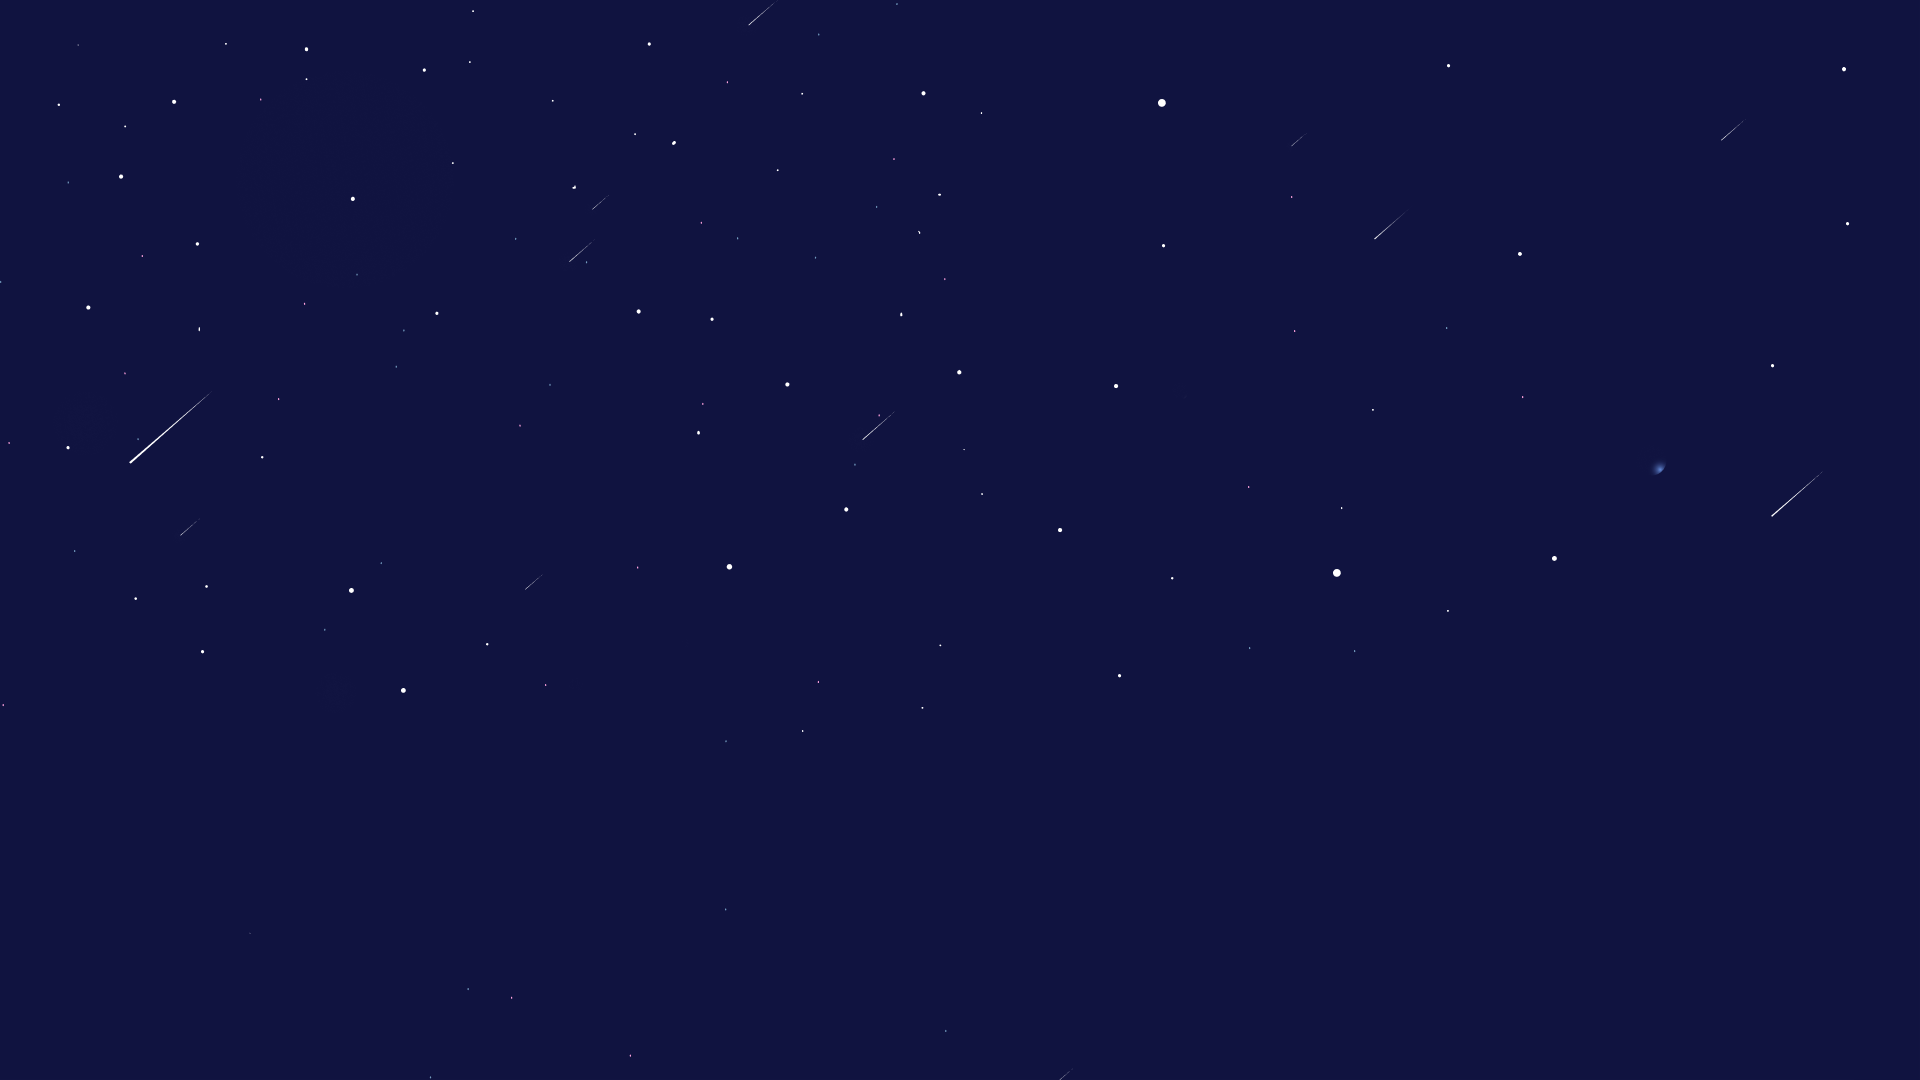
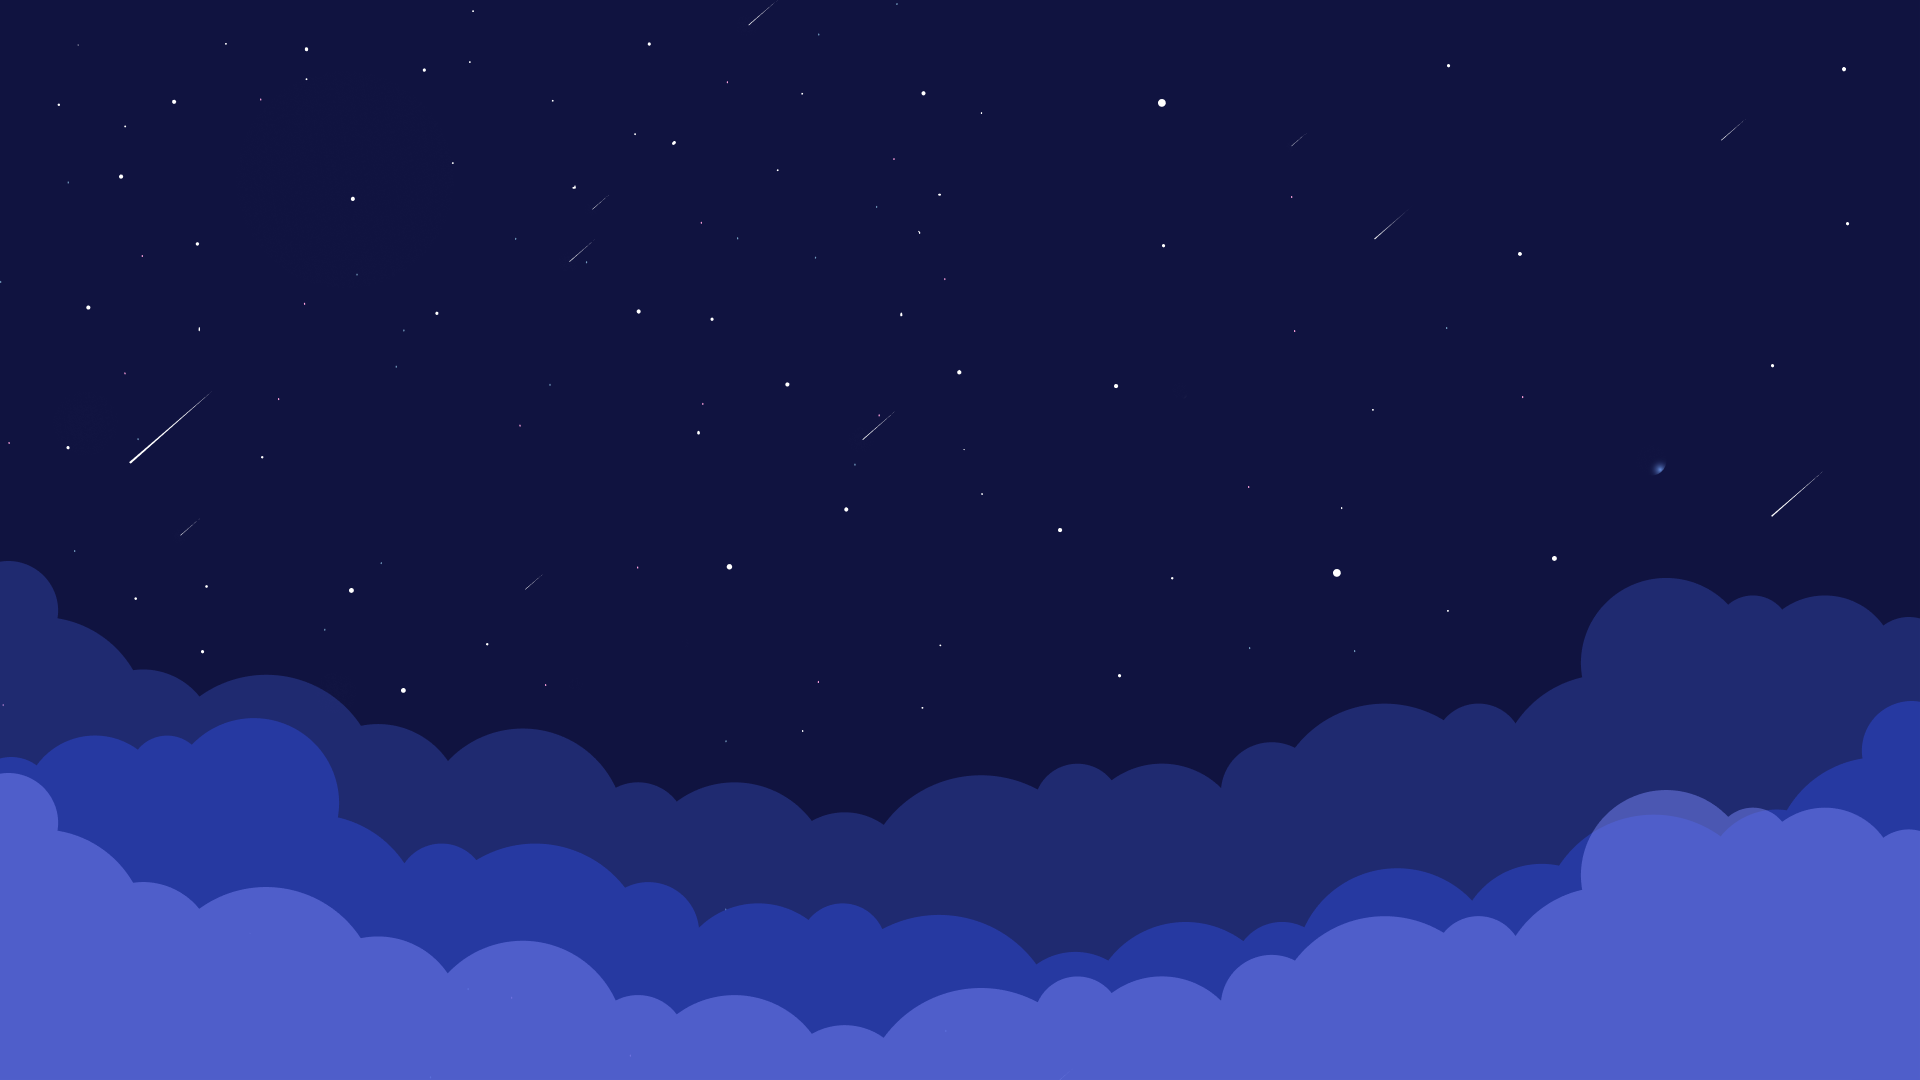
[docs] 모바일 이미지 작업중

diff --git a/src/shared/App.js b/src/shared/App.js
@@ -81,36 +81,35 @@ function App() {
         <Wrap className="App">
           <ConnectedRouter history={history}>
             <Header></Header>
-            <Container>
-              <Switch>
-                <Route path="/" exact component={Main} />
-                <Route path="/clock" exact component={Clock} />
-                <Route path="/login" exact component={Login} />
-                <Route path="/signup" exact component={Signup} />
-                <Route path="/requireLogin" exact component={RequireLogin} />
-                <Route path="/push" exact component={Push} />
-                <Route
-                  path="/pushNotication"
-                  exact
-                  component={FirstNotification}
-                ></Route>
-                <Route path="/diary" exact component={Diary}></Route>
-                <Route path="/asmr" component={Asmr}></Route>
-                <Route path="/asmrPop" exact component={AsmrPopUp}></Route>
-                <Route path="/mypage" exact component={Mypage} />
-                <Route path="/mypage/mixList" exact component={MixList} />
-                <Route
-                  path="/mypageNotice/:userIdx"
-                  exact
-                  component={MyPageNotification}
-                ></Route>
-                <Route path="/notice" exact component={NoticePage}></Route>
-                <Route path="/test" exact component={Test}></Route>
-                <Route>
-                  <NotFound />
-                </Route>
-              </Switch>
-            </Container>
+
+            <Switch>
+              <Route path="/" exact component={Main} />
+              <Route path="/clock" exact component={Clock} />
+              <Route path="/login" exact component={Login} />
+              <Route path="/signup" exact component={Signup} />
+              <Route path="/requireLogin" exact component={RequireLogin} />
+              <Route path="/push" exact component={Push} />
+              <Route
+                path="/pushNotication"
+                exact
+                component={FirstNotification}
+              ></Route>
+              <Route path="/diary" exact component={Diary}></Route>
+              <Route path="/asmr" component={Asmr}></Route>
+              <Route path="/asmrPop" exact component={AsmrPopUp}></Route>
+              <Route path="/mypage" exact component={Mypage} />
+              <Route path="/mypage/mixList" exact component={MixList} />
+              <Route
+                path="/mypageNotice/:userIdx"
+                exact
+                component={MyPageNotification}
+              ></Route>
+              <Route path="/notice" exact component={NoticePage}></Route>
+              <Route path="/test" exact component={Test}></Route>
+              <Route>
+                <NotFound />
+              </Route>
+            </Switch>
             <PlayBar></PlayBar>
             <Navigation></Navigation>
           </ConnectedRouter>
@@ -121,33 +120,14 @@ function App() {
 }
 
 const WrapBox = styled.div`
-  width: 100vw;
-  touch-action: auto;
+  width: 100%;
+  height: inherit;
+  /* width: 100vw;
+  touch-action: auto; */
 `;
 
 const Wrap = styled.div`
-  /* width: 375px; */
-  max-width: 640px;
-  /* height: 94%; */
-  height: 100vh;
-  background-color: ${({ theme }) => theme.colors.bg};
-  /* padding: 50px 0 56px 0; */
-
-  margin: 0 auto;
-  /* position: absolute;
-  top: 50%;
-  right: 17%;
-  transform: translateY(-50%); */
-  /* border: 1px solid rgba(255, 255, 255, 0.2); */
-  overflow: hidden;
-  @media (max-width: 640px) {
-    /* min-width: 335px;
-    width: 100%;
-    height: 100vh;
-    right: 0;
-    border: none; */
-  }
+  height: inherit;
 `;
-const Container = styled.div``;
 
 export default App;

diff --git a/src/components/Device.js b/src/components/Device.js
@@ -1,47 +1,80 @@
 import React from "react";
 import styled from "styled-components";
 
-const Device = () => {
+import phoneBG from "../static/images/bg/phoneBG.png";
+import main1 from "../static/images/bg/main_bg1.png";
+import main3 from "../static/images/bg/main_bg3.png";
+
+const Device = ({ children }) => {
+  const handleClick = () => {};
   return (
-    <WebBackgroundWrapper>
-      <ClayPhone>
-        {/* <WebViewLayout ref={webViewWrapper}>{children}</WebViewLayout> */}
-      </ClayPhone>
-    </WebBackgroundWrapper>
+    // <WebBackgroundWrapper>
+    //   <button className="install-btn" type="button" onClick={handleClick}>
+    //     다운받기 : 앱으로 이용 하실 수 있어요 ❤
+    //   </button>
+    //   <ClayPhone>
+    //     <WebViewLayout>{children}</WebViewLayout>
+    //   </ClayPhone>
+    // </WebBackgroundWrapper>
+
+    <Mobile>{children}</Mobile>
   );
 };
+const Mobile = styled.div`
+  display: flex;
+  position: relative;
+  margin: 0 auto;
+  width: 100%;
+  max-width: 640px;
+  min-width: 280px;
+  height: 100vh;
+  overflow: hidden;
+  background: red;
+`;
 const WebBackgroundWrapper = styled.div`
   width: 100vw;
   height: 100vh;
-  height: calc(var(--vh, 1vh) * 100);
-  -webkit-background-size: cover;
-  -moz-background-size: cover;
-  -o-background-size: cover;
-  background-size: cover;
-  @media screen and (min-width: 1120px) {
+  /* background-size: cover;s */
+
+  background: url(${main3}), url(${main1});
+  background-size: 300px 144px, cover;
+  background-position: 190px 230px, 0% 100%;
+  background-repeat: no-repeat;
+  /* @media screen and (min-width: 1120px) {
     -webkit-background-size: cover;
     -moz-background-size: cover;
     -o-background-size: cover;
     background-size: cover;
-  }
+  } */
 `;
 const ClayPhone = styled.div`
-  width: 387px;
-  height: 739px;
+  /* width: 387px;
+  height: 739px; */
+  width: 431px;
+  height: 864px;
   position: fixed;
   right: 50%;
   top: 50%;
   transform: translate(50%, -50%);
-  -webkit-background-size: cover;
-  -moz-background-size: cover;
-  -o-background-size: cover;
-  background-size: cover;
+  background: url(${phoneBG}) no-repeat center/cover;
   @media screen and (min-width: 1120px) {
     right: 10%;
     top: 50%;
     transform: translateX(0%);
     transform: translateY(-50%);
   }
+`;
+const WebViewLayout = styled.div`
+  max-width: 373px;
+  height: 810px;
+  border: 1px solid red;
+  position: relative;
+  top: 50%;
+  left: 50%;
+  transform: translate(-50%, -50%);
+  border-radius: 40px;
+
+  overflow: hidden;
 `;
 
 export default Device;

diff --git a/src/pages/Clock.js b/src/pages/Clock.js
@@ -9,7 +9,8 @@ import Icon from "../elements/Icon";
 
 // --- images ---
 import nextIcon from "../static/images/icon/path_white.png";
-import sleep_background from "../static/images/sleeptime/sleep_background.svg";
+import sleep_T from "../static/images/sleeptime/sleep_T.png";
+import sleep_B from "../static/images/sleeptime/sleep_B.png";
 
 const Clock = (props) => {
   const [ampm, setampm] = React.useState("");
@@ -206,7 +207,7 @@ const Clock = (props) => {
   }
   return (
     <>
-      <Background categoryImage={sleep_background}>
+      <Background>
         <Icon
           src={nextIcon}
           top="104px"
@@ -345,15 +346,18 @@ const Clock = (props) => {
 
 // --- styled-components ---
 const Background = styled.div`
-  position: relative;
+  width: 100%;
+  height: inherit;
+  /* position: relative;
   top: -50px;
   left: 0px;
   width: 375px;
-  height: 812px;
+  height: 812px; */
 
-  background-image: url(${(props) => props.categoryImage});
+  background: url(${sleep_T}), url(${sleep_B});
+  background-size: 120%, 282px;
+  background-position: -70px 100px, 50% 110%;
   background-repeat: no-repeat;
-  background-size: cover;
 `;
 
 const Title = styled.p`

diff --git a/src/index.js b/src/index.js
@@ -7,10 +7,13 @@ import reportWebVitals from "./reportWebVitals";
 
 import { Provider } from "react-redux";
 import store from "./redux/configureStore";
+import Device from "./components/Device";
 
 ReactDOM.render(
   <Provider store={store}>
-    <App />
+    <Device>
+      <App />
+    </Device>
   </Provider>,
   document.getElementById("root")
 );
@@ -25,8 +28,6 @@ serviceWorkerRegistration.register();
 // or send to an analytics endpoint. Learn more: https://bit.ly/CRA-vitals
 reportWebVitals();
 
-
-
 // navigator.serviceWorker.register('service-worker.js')  //푸시알림 추가할지 안할지 테스트하면서 볼것
 // .then(function(registration) {
 //   return registration.pushManager.getSubscription()
@@ -40,4 +41,3 @@ reportWebVitals();
 //       return subscription;
 //   }
 // });
-

diff --git a/src/pages/Main.js b/src/pages/Main.js
@@ -77,17 +77,18 @@ const Main = (props) => {
 };
 // --- styled-components ---
 const Container = styled.div`
+  height: inherit;
+  padding: 50px 20px 56px 20px;
   overflow-y: scroll;
+  box-sizing: border-box;
   /* height: 720px; */
   /* height: calc(100% - 106px); */
-  /* padding: 50px ${({ theme }) => theme.paddings.xxxxl}; */
-  border-top: solid;
   &::-webkit-scrollbar {
     display: none;
   }
-  @media (max-width: 640px) {
+  /* @media (max-width: 640px) {
     height: 89vh;
-  }
+  } */
 `;
 const Title = styled.p`
   padding: 30px 0 20px 0;
